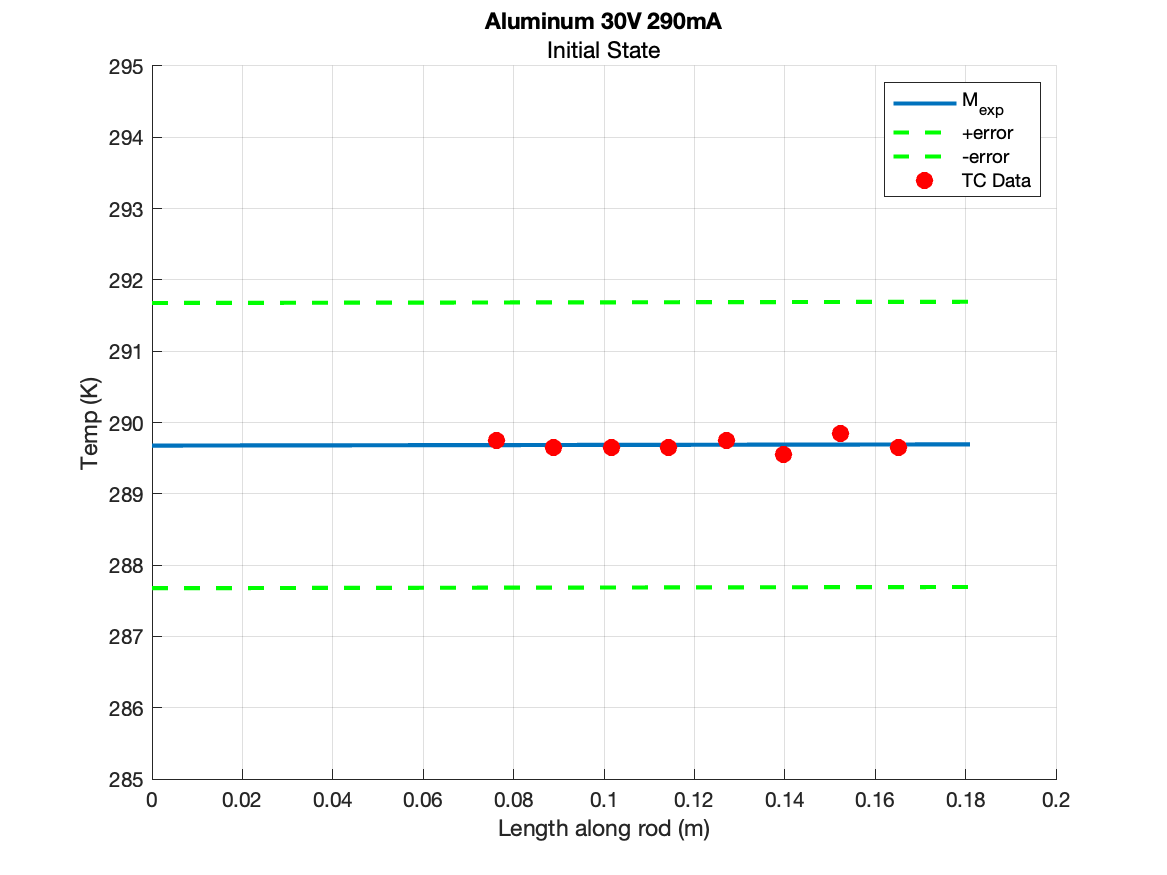
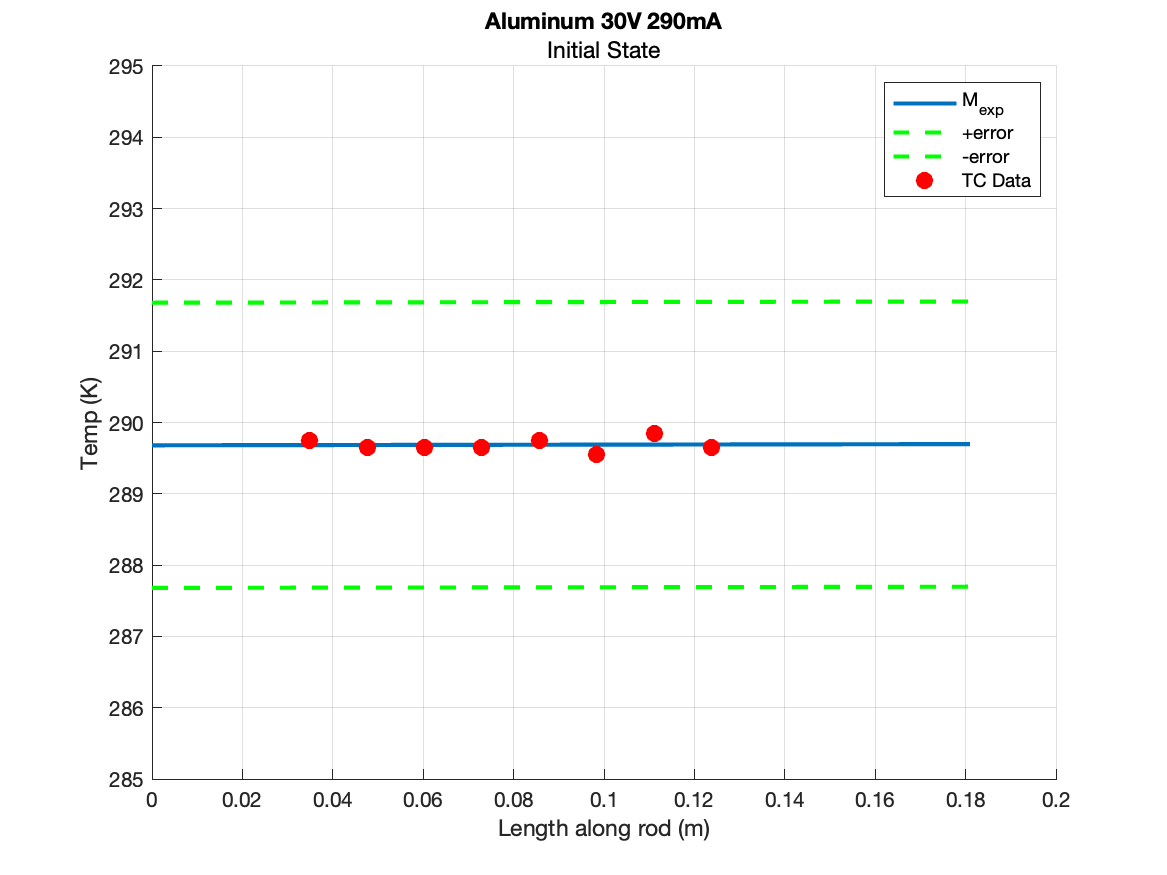
Task 2 done

diff --git a/filereadin.m b/filereadin.m
@@ -21,7 +21,7 @@ delta_x = 0.0127; %m
 cross_sec = pi * ((diameter/2)^2);
 rod_length = 0.180975; % m
 %thermocouple locations
-tc_loc = 0.0762 + (0:7)*delta_x;
+tc_loc = 0.0349 + (0:7)*delta_x;
 
 %%
 folder = '3802Lab2_data';
@@ -168,24 +168,24 @@ for i=1:5
         saveas(gcf,fname,'png')
 
         %% Part 2 Task 2
-        %chosen n value: n=6
+        %chosen n value: n=4
 
         time = data(:,1);
         time = time(1:end-2);
-        series = zeros(length(time),length(tc_loc),7);
+        series = zeros(length(time),length(tc_loc),5);
 
         for t=1:length(time) % over time 
             for tc=1:length(tc_loc)% each x of thermocouple
-                for n=1:6 %for n
+                for n=1:4 %for n
                     %calculate b_n
-                    b_n(n) = (((-1).^n).*8.*rod_length.*H_an(i))./((pi.^2).*(((2.*(n))-1).^2));
+                    new_b_n(n) = (((-1).^n).*8.*rod_length.*H_an(i))./((pi.^2).*(((2.*(n))-1).^2));
                     %calculate lambda_n
-                    lambda_n(n) = (((2*n)-1)*pi)/(2*rod_length);
+                    new_lambda_n(n) = (((2*n)-1)*pi)/(2*rod_length);
                     %calculate series
-                    series(t,tc,n+1) = series(n) + b_n(n).*sin(lambda_n(n).*tc_loc(tc)).*exp(-1.*(lambda_n(n).^2).*alpha(1).*time(t));
+                    series(t,tc,n+1) = series(t,tc,n) + (new_b_n(n).*sin(new_lambda_n(n).*tc_loc(tc)).*exp(-1.*(new_lambda_n(n).^2).*alpha(1).*(time(t))));
                 end
                 series = series(:,:,end);
-                u_Al_25(t,tc) = (T0_init(i) + (H_an(i).*tc_loc(tc)) + series(t,tc)) - 273.15; %convert to degC
+                u_Al_25(t,tc) = (T0(i) + (H_an(i).*tc_loc(tc)) + series(t,tc)) - 273.15; %convert to degC
                 
             end
        
@@ -197,13 +197,15 @@ for i=1:5
         grid on;
         for tc=1:length(tc_loc)
             plot(time,u_Al_25(:,tc),'k',LineWidth=2)
-            %plot(time,data(:,(tc+1)),'r',LineWidth=2)
+            plot(time,data(1:end-2,tc+1),'r',LineWidth=2)
         end
         xlabel("time (s)")
-        ylabel("u(x,t) [degC]")
+        ylabel("u [°C]")
+        title("Aluminium 25V")
 
-
-
+        %saving figures
+        fname = sprintf('Task2_%s_%s_%s.png', b{1}, b{2}, b{3});
+        saveas(gcf,fname,'png')
 
     elseif (b{1} == "Aluminum") && (b{2} == "30V") && (b{3} == "290mA")
         %Task 1
@@ -291,6 +293,46 @@ for i=1:5
         fname = sprintf('initial_%s_%s_%s.png', b{1}, b{2}, b{3});
         saveas(gcf,fname,'png')
 
+        %% Part 2 Task 2
+        %chosen n value: n=4
+
+        time = data(:,1);
+        time = time(1:end-2);
+        series = zeros(length(time),length(tc_loc),5);
+
+        for t=1:length(time) % over time 
+            for tc=1:length(tc_loc)% each x of thermocouple
+                for n=1:4 %for n
+                    %calculate b_n
+                    new_b_n(n) = (((-1).^n).*8.*rod_length.*H_an(i))./((pi.^2).*(((2.*(n))-1).^2));
+                    %calculate lambda_n
+                    new_lambda_n(n) = (((2*n)-1)*pi)/(2*rod_length);
+                    %calculate series
+                    series(t,tc,n+1) = series(t,tc,n) + (new_b_n(n).*sin(new_lambda_n(n).*tc_loc(tc)).*exp(-1.*(new_lambda_n(n).^2).*alpha(1).*(time(t))));
+                end
+                series = series(:,:,end);
+                u_Al_30(t,tc) = (T0(i) + (H_an(i).*tc_loc(tc)) + series(t,tc)) - 273.15; %convert to degC
+                
+            end
+       
+        end
+
+        %plotting u(x,t) against all tc loc
+        figure;
+        hold on;
+        grid on;
+        for tc=1:length(tc_loc)
+            plot(time,u_Al_30(:,tc),'k',LineWidth=2)
+            plot(time,data(1:end-2,tc+1),'r',LineWidth=2)
+        end
+        xlabel("time (s)")
+        ylabel("u [°C]")
+        title("Aluminium 30V")
+
+        %saving figures
+        fname = sprintf('Task2_%s_%s_%s.png', b{1}, b{2}, b{3});
+        saveas(gcf,fname,'png')
+
     elseif (b{1} == "Brass") && (b{2} == "25V") && (b{3} == "237mA")
         %Task 1
         %NOTE: Polyfit gives 2 arguments: first is slope and second is
@@ -375,6 +417,46 @@ for i=1:5
 
         %saving figures
         fname = sprintf('initial_%s_%s_%s.png', b{1}, b{2}, b{3});
+        saveas(gcf,fname,'png')
+
+        %% Part 2 Task 2
+        %chosen n value: n=4
+
+        time = data(:,1);
+        time = time(1:end-2);
+        series = zeros(length(time),length(tc_loc),5);
+
+        for t=1:length(time) % over time 
+            for tc=1:length(tc_loc)% each x of thermocouple
+                for n=1:4 %for n
+                    %calculate b_n
+                    new_b_n(n) = (((-1).^n).*8.*rod_length.*H_an(i))./((pi.^2).*(((2.*(n))-1).^2));
+                    %calculate lambda_n
+                    new_lambda_n(n) = (((2*n)-1)*pi)/(2*rod_length);
+                    %calculate series
+                    series(t,tc,n+1) = series(t,tc,n) + (new_b_n(n).*sin(new_lambda_n(n).*tc_loc(tc)).*exp(-1.*(new_lambda_n(n).^2).*alpha(1).*(time(t))));
+                end
+                series = series(:,:,end);
+                u_Br_25(t,tc) = (T0(i) + (H_an(i).*tc_loc(tc)) + series(t,tc)) - 273.15; %convert to degC
+                
+            end
+       
+        end
+
+        %plotting u(x,t) against all tc loc
+        figure;
+        hold on;
+        grid on;
+        for tc=1:length(tc_loc)
+            plot(time,u_Br_25(:,tc),'k',LineWidth=2)
+            plot(time,data(1:end-2,tc+1),'r',LineWidth=2)
+        end
+        xlabel("time (s)")
+        ylabel("u [°C]")
+        title("Brass 25V")
+
+        %saving figures
+        fname = sprintf('Task2_%s_%s_%s.png', b{1}, b{2}, b{3});
         saveas(gcf,fname,'png')
         
     elseif (b{1} == "Brass") && (b{2} == "30V") && (b{3} == "285mA")
@@ -463,6 +545,46 @@ for i=1:5
         fname = sprintf('initial_%s_%s_%s.png', b{1}, b{2}, b{3});
         saveas(gcf,fname,'png')
 
+        %% Part 2 Task 2
+        %chosen n value: n=4
+
+        time = data(:,1);
+        time = time(1:end-2);
+        series = zeros(length(time),length(tc_loc),5);
+
+        for t=1:length(time) % over time 
+            for tc=1:length(tc_loc)% each x of thermocouple
+                for n=1:4 %for n
+                    %calculate b_n
+                    new_b_n(n) = (((-1).^n).*8.*rod_length.*H_an(i))./((pi.^2).*(((2.*(n))-1).^2));
+                    %calculate lambda_n
+                    new_lambda_n(n) = (((2*n)-1)*pi)/(2*rod_length);
+                    %calculate series
+                    series(t,tc,n+1) = series(t,tc,n) + (new_b_n(n).*sin(new_lambda_n(n).*tc_loc(tc)).*exp(-1.*(new_lambda_n(n).^2).*alpha(1).*(time(t))));
+                end
+                series = series(:,:,end);
+                u_Br_30(t,tc) = (T0(i) + (H_an(i).*tc_loc(tc)) + series(t,tc)) - 273.15; %convert to degC
+                
+            end
+       
+        end
+
+        %plotting u(x,t) against all tc loc
+        figure;
+        hold on;
+        grid on;
+        for tc=1:length(tc_loc)
+            plot(time,u_Br_30(:,tc),'k',LineWidth=2)
+            plot(time,data(1:end-2,tc+1),'r',LineWidth=2)
+        end
+        xlabel("time (s)")
+        ylabel("u [°C]")
+        title("Brass 30V")
+
+        %saving figures
+        fname = sprintf('Task2_%s_%s_%s.png', b{1}, b{2}, b{3});
+        saveas(gcf,fname,'png')
+
     elseif (b{1} == "Steel") && (b{2} == "22V") && (b{3} == "203mA")
         %Task 1
         %NOTE: Polyfit gives 2 arguments: first is slope and second is
@@ -547,6 +669,47 @@ for i=1:5
 
         %saving figures
         fname = sprintf('initial_%s_%s_%s.png', b{1}, b{2}, b{3});
+        saveas(gcf,fname,'png')
+
+        %% Part 2 Task 2
+        %chosen n value: n=4
+
+        time = data(:,1);
+        time = time(1:end-2);
+        series = zeros(length(time),length(tc_loc),5);
+
+        for t=1:length(time) % over time 
+            for tc=1:length(tc_loc)% each x of thermocouple
+                for n=1:4 %for n
+                    %calculate b_n
+                    new_b_n(n) = (((-1).^n).*8.*rod_length.*H_an(i))./((pi.^2).*(((2.*(n))-1).^2));
+                    %calculate lambda_n
+                    new_lambda_n(n) = (((2*n)-1)*pi)/(2*rod_length);
+                    %calculate series
+                    series(t,tc,n+1) = series(t,tc,n) + (new_b_n(n).*sin(new_lambda_n(n).*tc_loc(tc)).*exp(-1.*(new_lambda_n(n).^2).*alpha(1).*(time(t))));
+                end
+                series = series(:,:,end);
+                u_St_22(t,tc) = (T0(i) + (H_an(i).*tc_loc(tc)) + series(t,tc)) - 273.15; %convert to degC
+                
+            end
+       
+        end
+
+        %plotting u(x,t) against all tc loc
+        figure;
+        hold on;
+        grid on;
+        for tc=1:length(tc_loc)
+            plot(time,u_St_22(:,tc),'k',LineWidth=2)
+            plot(time,data(1:end-2,tc+1),'r',LineWidth=2)
+        end
+        xlabel("time (s)")
+        ylabel("u [°C]")
+        title("Steel 22V")
+        legend("Model","Exp",Location='best')
+
+        %saving figures
+        fname = sprintf('Task2_%s_%s_%s.png', b{1}, b{2}, b{3});
         saveas(gcf,fname,'png')
         
     else
